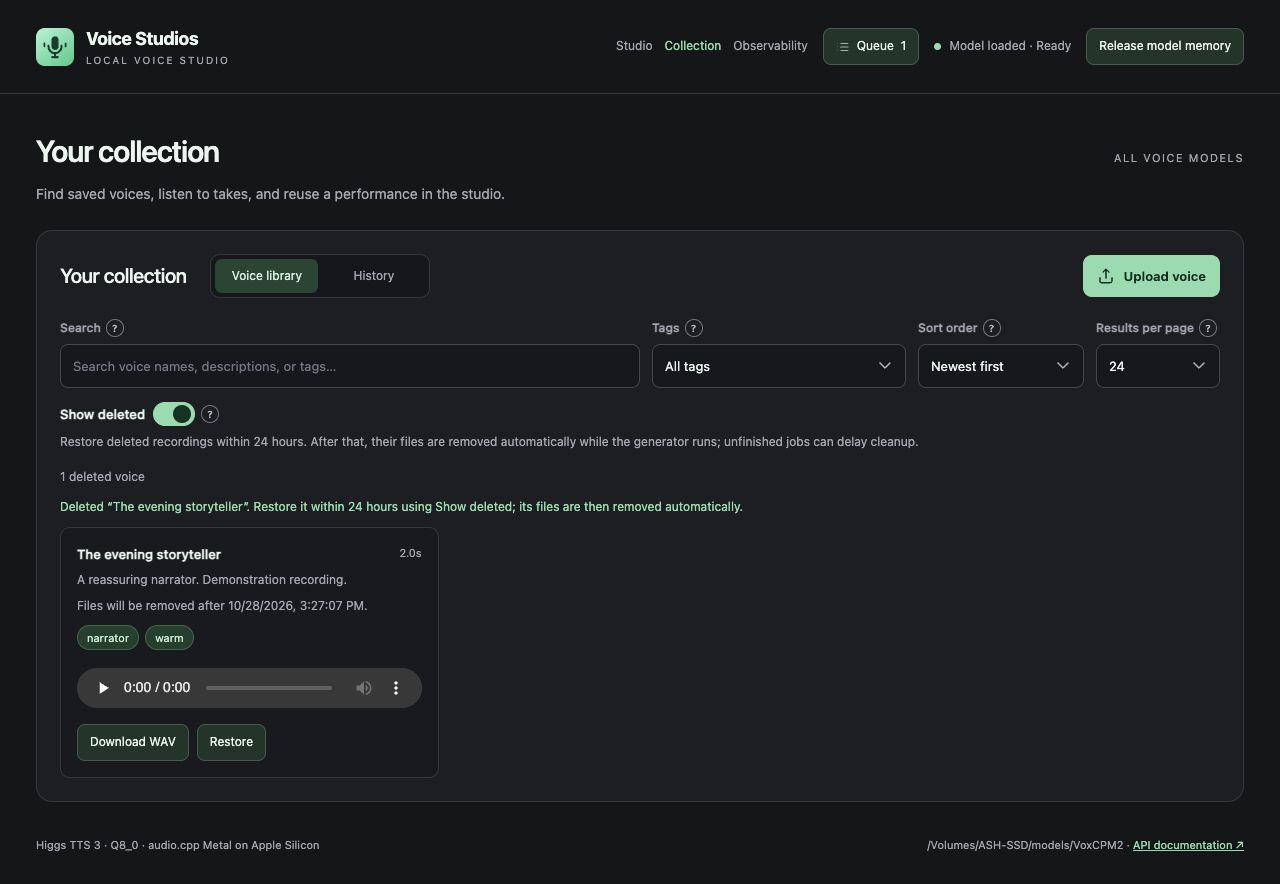
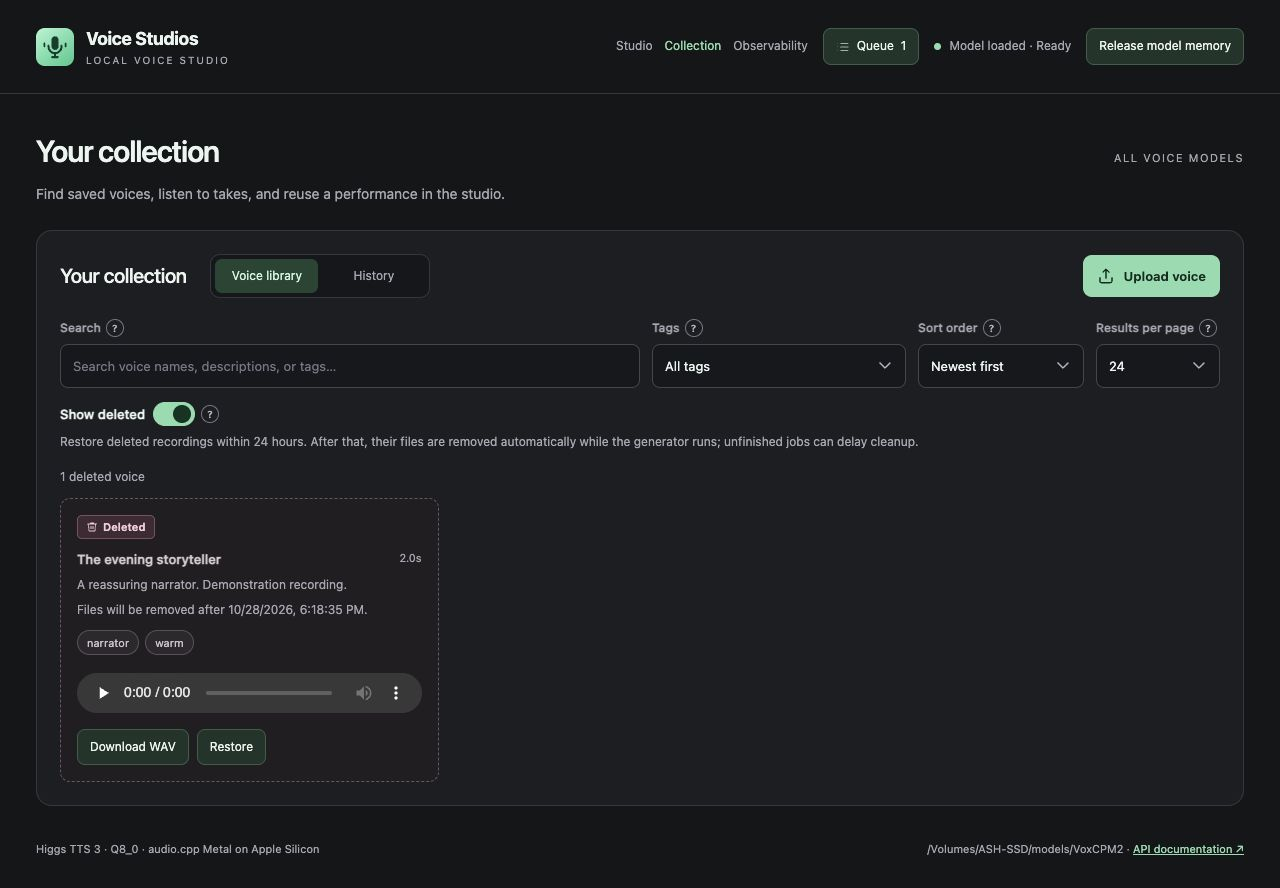
Visually distinguish deleted Collection entries (#6)

diff --git a/ui/index.html b/ui/index.html
@@ -113,6 +113,11 @@ input:disabled::placeholder,textarea:disabled::placeholder{color:#aeb5c0;opacity
 .collection-filters input,.collection-filters select,.tag-select{height:44px;font-size:13px}
 .collection-filters[data-history=true]{grid-template-columns:minmax(0,1fr) 124px}
 .collection-tags{position:relative}
+.card[data-deleted=true]{background:#211e21;border-color:#6c5660;border-style:dashed}
+.card[data-deleted=true] .card-title strong{color:#d4cbd0}
+.card[data-deleted=true] .tag-chip{background:#2c292d;border-color:#58505a;color:#ccc3ce}
+.deleted-badge{display:inline-flex;align-items:center;gap:5px;margin-bottom:10px;padding:3px 8px;border:1px solid #775360;border-radius:5px;background:#3c2b32;color:#f0cdd9;font-size:11px;font-weight:600;line-height:1.4}
+.deleted-badge .queue-icon{width:12px;height:12px;color:currentColor}
 .tag-select{display:flex;align-items:center;justify-content:space-between;gap:10px;width:100%;border:1px solid #45454e;border-radius:8px;background:#17181b;color:var(--text);padding:10px 14px 10px 12px;text-align:left}
 .tag-select:hover{border-color:#68756d}.tag-select[aria-expanded=true]{border-color:var(--accent)}
 #tag-filter-summary{overflow:hidden;text-overflow:ellipsis;white-space:nowrap;min-width:0}.tag-select svg{flex:none;color:#b6b8c2}

diff --git a/ui/app.js b/ui/app.js
@@ -470,6 +470,8 @@ function renderCards() {
   for (const row of rows) {
     const card = el('article', null, 'card');
     card.dataset.collectionId=row.id;card.dataset.collectionKind=isVoices?'voices':'outputs';
+    card.dataset.deleted=String(deleted);
+    if(deleted){const badge=el('span',null,'deleted-badge');badge.append(queueIcon('remove'),el('span','Deleted'));card.append(badge)}
     const head = el('div', null, 'card-title');
     head.append(el('strong', isVoices ? row.name : new Date(row.created_at).toLocaleString()),
       el('span', `${row.duration.toFixed(1)}s`, 'tiny'));

diff --git a/AGENTS.md b/AGENTS.md
@@ -51,7 +51,7 @@ Use isolated project-local test state and benign media fixtures. Preserve pre-ex
 
 All pages use the generator shell in `ui/index.html`, including its exact header, Queue modal, service status and memory-release control. `ui/observability.html` is a content partial composed by its route; keep its CSS scoped under `#observability-page` and its script isolated from the shared app script. Never reintroduce a separate page header. Shared Queue actions on a browsing page navigate to Studio for monitoring or results; generation shortcuts run only on Studio. Keep the browser brand **Voice Studios** and shared `ui/icon.svg` consistent; model selection never changes the brand or app title. The PNG phone icon and ICO favicon are raster versions of that SVG.
 
-The entire header brand (icon/title/subtitle) is one native home link to Studio on every page. Collection puts Voice library before History and defaults to voices. Voice/take deletion requires a named confirmation; Cancel/Escape must not send DELETE. Show deleted is an accessible switch and lists retained entries with deadlines and Restore. Deletion keeps its original timestamp on repeat; restoration is allowed only before 24 hours. Afterward the generator-owned `collection_cleanup.py` removes the recording’s WAV/JSON/index and an uploaded voice’s unshared reference WAV/JSON/original BIN. Independent saved copies stay. Keep queue records/results, never regenerate expired results. The cleaner runs at startup and once a minute only under generator ownership, stops before releasing that ownership, and uses a persisted cleanup plan before unlinking so partial failures/restarts resume. Validate IDs, exact filenames, regular files, symlinks and mounts; never glob-delete directories or trust arbitrary metadata paths. SQLite queued/running payloads (including opaque requests and auxiliary references) defer dependent cleanup. Use lock order manager.guard → voice_catalog.metadata_lock → SQLite; serialize direct admission, copying, pause editing and restore against cleanup. Storage errors retain/retry plans and report through GET /api/collection/cleanup, without failing jobs. Lists/search/tags/pagination reflect deleted state; refresh the deleted view while visible. Return deletion deadlines in schemas, 410 for expired restore before removal and 404 afterward. Tests must use disposable fixtures and cover boundaries, shared originals, frozen/opaque jobs, custom outputs, crash/permission/mount/symlink failures and shutdown. Keep [retention documentation](docs/collection-retention.md) aligned.
+The entire header brand (icon/title/subtitle) is one native home link to Studio on every page. Collection puts Voice library before History and defaults to voices. Voice/take deletion requires a named confirmation; Cancel/Escape must not send DELETE. Show deleted is an accessible switch and lists retained entries with deadlines and Restore. Deleted cards in both libraries show a text-and-trash-icon Deleted badge, muted colors and a dashed border; keep deadlines and actions readable and restore the normal style after restoration. Deletion keeps its original timestamp on repeat; restoration is allowed only before 24 hours. Afterward the generator-owned `collection_cleanup.py` removes the recording’s WAV/JSON/index and an uploaded voice’s unshared reference WAV/JSON/original BIN. Independent saved copies stay. Keep queue records/results, never regenerate expired results. The cleaner runs at startup and once a minute only under generator ownership, stops before releasing that ownership, and uses a persisted cleanup plan before unlinking so partial failures/restarts resume. Validate IDs, exact filenames, regular files, symlinks and mounts; never glob-delete directories or trust arbitrary metadata paths. SQLite queued/running payloads (including opaque requests and auxiliary references) defer dependent cleanup. Use lock order manager.guard → voice_catalog.metadata_lock → SQLite; serialize direct admission, copying, pause editing and restore against cleanup. Storage errors retain/retry plans and report through GET /api/collection/cleanup, without failing jobs. Lists/search/tags/pagination reflect deleted state; refresh the deleted view while visible. Return deletion deadlines in schemas, 410 for expired restore before removal and 404 afterward. Tests must use disposable fixtures and cover boundaries, shared originals, frozen/opaque jobs, custom outputs, crash/permission/mount/symlink failures and shutdown. Keep [retention documentation](docs/collection-retention.md) aligned.
 
 Collection filters share one desktop row: search uses half its width, Tags uses a searchable existing-tag checkbox dropdown, and sort/page size stay narrow. Show up to two selected tag names, then an X selected count; long names ellipsize without widening the row. Match any selected exact tag via repeated `tags` query values; keep legacy single `tag` working. Search/sort/size/tag changes reset pagination. Refresh selected tags against current active/deleted tag choices. Focus tag search on opening; filtering choices must preserve all selections, including hidden ones, and report no matches. Closing resets only the search. Keep the dropdown keyboard accessible with ArrowDown, Tab, Space, Escape/focus return, outside-click dismissal and Clear. Wrap controls at tablet/phone widths without horizontal overflow. History retains its search/page-size controls and hides voice-only filters.
 

diff --git a/docs/collection-retention.md b/docs/collection-retention.md
@@ -2,6 +2,8 @@
 
 Delete a voice or take from Collection and confirm its name. It is hidden from the active library immediately. Turn on **Show deleted** to listen, download or **Restore** it during the next **24 hours**.
 
+Deleted voices and takes have a **Deleted** badge with a trash icon, a muted background and a dashed border. The removal deadline and Restore action remain readable.
+
 ![Deleted Collection entry with the switch, removal deadline and Restore](images/collection-deleted-retention.jpg)
 
 The screenshot uses disposable demonstration audio and fake speech generation.
